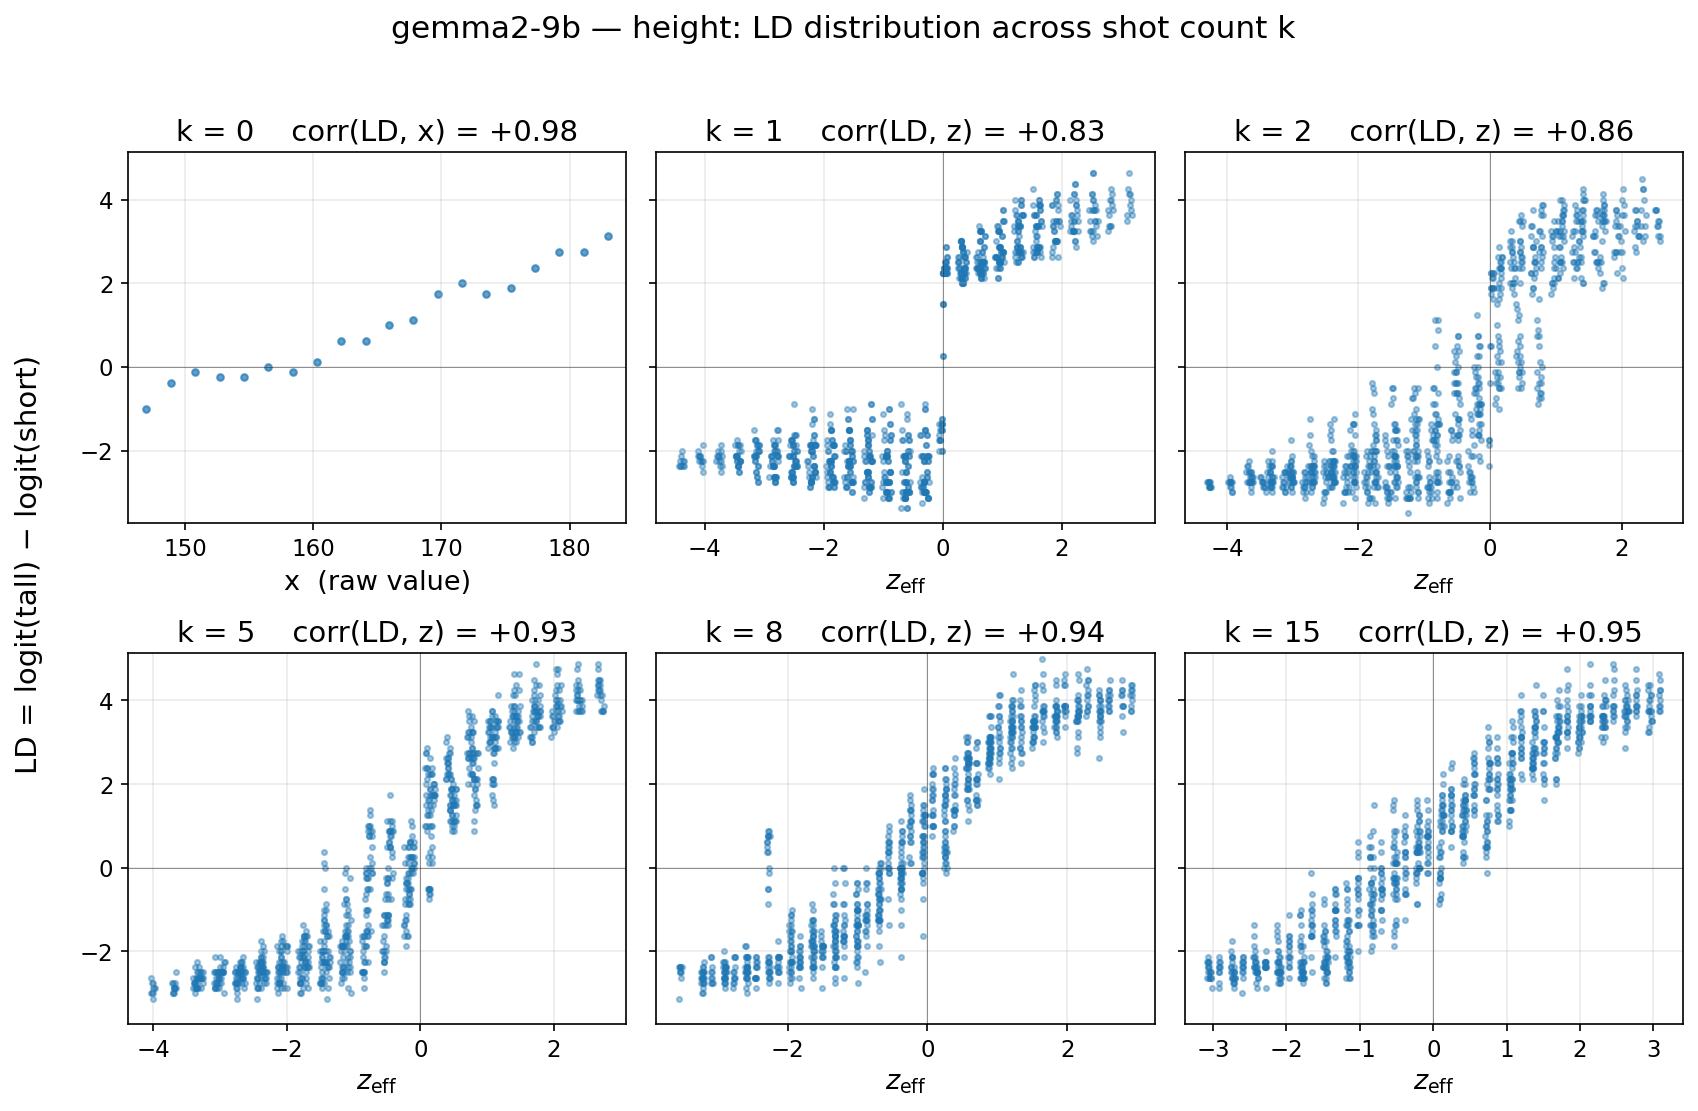
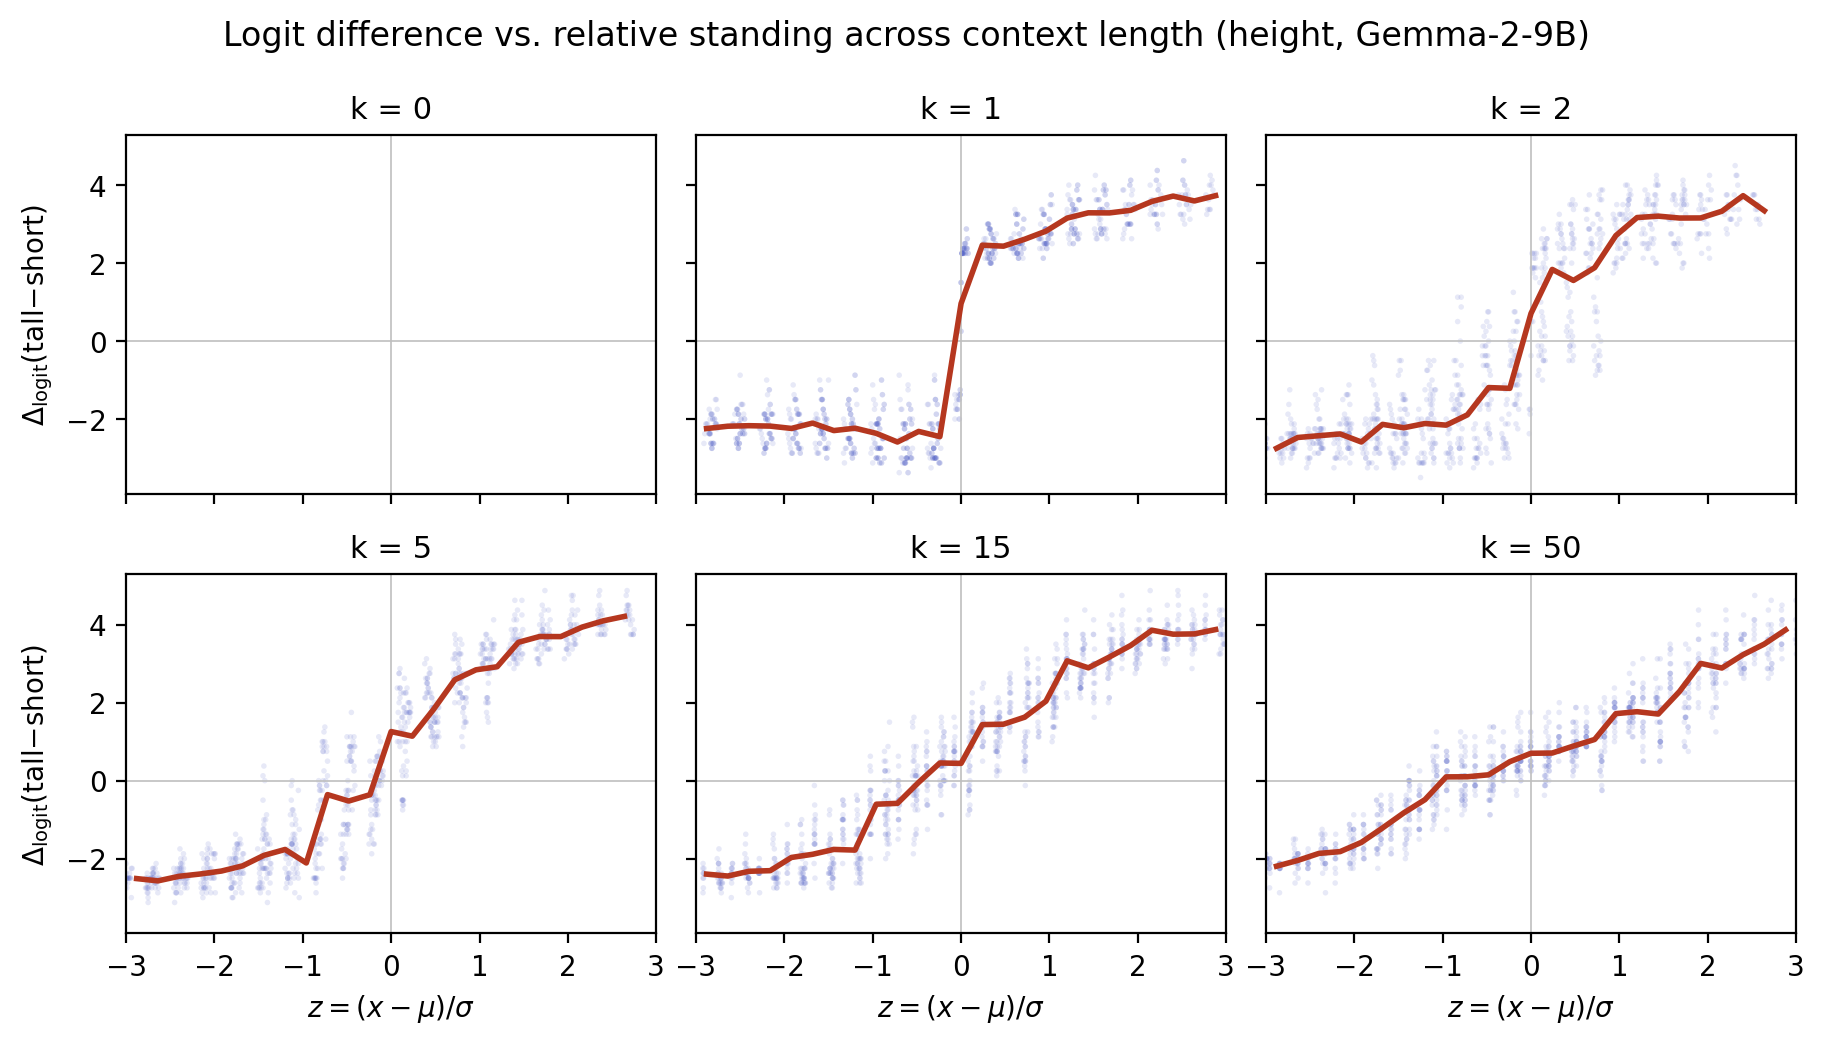
Regenerate the last two data figures — 21/22 paper figures now reproduce
- build_shared_direction_figure.py: own vs LOO absolute steering slopes (d_z, d_x) from
  results/v15 -> fig_results_shared_direction_own_loo_abs_slopes_z_vs_x.png
- build_p2a_kshot_2x3.py: LD vs z across shot counts from circuit/results/p2_ld ->
  p2a_ld_vs_z_height_gemma2-9b_2x3.png

These two had no plotting script in git (figures were hand-renamed/ad hoc); rebuilt faithfully
from committed data. Original hand-finalized PNGs remain in git history. Only the hand-made Fig 1
pipeline schematic (candidate_5) is now a committed asset.

diff --git a/figures/build_p2a_kshot_2x3.py b/figures/build_p2a_kshot_2x3.py
@@ -1,0 +1,64 @@
+#!/usr/bin/env python3
+"""Regenerate p2a_ld_vs_z_height_gemma2-9b_2x3.png from circuit/results/p2_ld.
+
+Logit difference vs context-normalized standing z at growing shot counts k: a sharp comparator-like
+step at small k that smooths toward a graded response as context grows. (Reproduction from committed
+per-prompt LD arrays; the original plotting script was not in git.)
+"""
+from __future__ import annotations
+
+from pathlib import Path
+
+import matplotlib.pyplot as plt
+import numpy as np
+
+ROOT = Path(__file__).resolve().parents[1]
+LD_DIR = ROOT / "circuit" / "results" / "p2_ld" / "gemma2-9b"
+OUT = ROOT / "paper" / "figures" / "p2a_ld_vs_z_height_gemma2-9b_2x3.png"
+KS = [0, 1, 2, 5, 15, 50]
+
+
+def binned_mean(z: np.ndarray, ld: np.ndarray, nbins: int = 25):
+    edges = np.linspace(-3, 3, nbins + 1)
+    idx = np.digitize(z, edges) - 1
+    xs, ys = [], []
+    for b in range(nbins):
+        m = idx == b
+        if m.sum() >= 3:
+            xs.append(0.5 * (edges[b] + edges[b + 1]))
+            ys.append(float(ld[m].mean()))
+    return np.array(xs), np.array(ys)
+
+
+def main() -> None:
+    fig, axes = plt.subplots(2, 3, figsize=(9.2, 5.3), sharex=True, sharey=True)
+    for ax, k in zip(axes.ravel(), KS):
+        p = LD_DIR / f"height_k{k}.npz"
+        if not p.exists():
+            ax.set_visible(False)
+            continue
+        d = np.load(p, allow_pickle=True)
+        z = np.asarray(d["z_eff"] if (k > 0 and "z_eff" in d.files) else d["z"], dtype=float)
+        ld = np.asarray(d["ld"], dtype=float)
+        ax.axhline(0, color="0.75", lw=0.6)
+        ax.axvline(0, color="0.75", lw=0.6)
+        ax.scatter(z, ld, s=4, alpha=0.12, color="#3b4cc0", edgecolors="none")
+        bx, by = binned_mean(z, ld)
+        if len(bx):
+            ax.plot(bx, by, color="#b5371f", lw=2)
+        ax.set_title(f"k = {k}", fontsize=11)
+        ax.set_xlim(-3, 3)
+    for ax in axes[-1]:
+        ax.set_xlabel(r"$z=(x-\mu)/\sigma$", fontsize=10)
+    for ax in axes[:, 0]:
+        ax.set_ylabel(r"$\Delta_{\mathrm{logit}}$(tall$-$short)", fontsize=10)
+    fig.suptitle("Logit difference vs. relative standing across context length (height, Gemma-2-9B)",
+                 fontsize=12)
+    fig.tight_layout()
+    OUT.parent.mkdir(parents=True, exist_ok=True)
+    fig.savefig(OUT, dpi=200, bbox_inches="tight")
+    print(f"wrote {OUT}")
+
+
+if __name__ == "__main__":
+    main()

diff --git a/figures/build_shared_direction_figure.py b/figures/build_shared_direction_figure.py
@@ -1,0 +1,50 @@
+#!/usr/bin/env python3
+"""Regenerate fig_results_shared_direction_own_loo_abs_slopes_z_vs_x.png from results/v15.
+
+For each concept, the absolute steering slope of the concept's OWN mean-difference direction vs a
+leave-one-out (LOO) shared direction built from the other seven concepts, for the relative-standing
+axis d_z (left) and the raw-magnitude axis d_x (right). LOO d_z retains much of own-d_z steering;
+d_x transfers less. (Reproduction from committed data; the original plotting script was not in git.)
+"""
+from __future__ import annotations
+
+import json
+from pathlib import Path
+
+import matplotlib.pyplot as plt
+import numpy as np
+
+ROOT = Path(__file__).resolve().parents[1]
+SRC = ROOT / "results" / "v15" / "shared_direction_loo_z_vs_x.json"
+OUT = ROOT / "paper" / "figures" / "fig_results_shared_direction_own_loo_abs_slopes_z_vs_x.png"
+
+ORDER = ["height", "age", "weight", "size", "speed", "wealth", "experience", "bmi_abs"]
+LABEL = {"height": "Height", "age": "Age", "weight": "Weight", "size": "Size",
+         "speed": "Speed", "wealth": "Income", "experience": "Experience", "bmi_abs": "BMI"}
+
+
+def main() -> None:
+    by_pair = json.loads(SRC.read_text())["by_pair"]
+    fig, axes = plt.subplots(1, 2, figsize=(9.2, 3.7))
+    for ax, comp, title in [(axes[0], "z", r"Relative standing $d_z$"),
+                            (axes[1], "x", r"Raw magnitude $d_x$")]:
+        own = [abs(by_pair[p][comp]["own_slope"]) for p in ORDER]
+        loo = [abs(by_pair[p][comp]["loo_shared_slope"]) for p in ORDER]
+        xs = np.arange(len(ORDER))
+        w = 0.38
+        ax.bar(xs - w / 2, own, w, label="own direction", color="#3b4cc0")
+        ax.bar(xs + w / 2, loo, w, label="LOO shared", color="#e8743b")
+        ax.set_xticks(xs)
+        ax.set_xticklabels([LABEL[p] for p in ORDER], rotation=40, ha="right", fontsize=8)
+        ax.set_title(title, fontsize=11)
+        ax.set_ylabel(r"$|$steering slope$|$", fontsize=9)
+        ax.legend(fontsize=8, frameon=False)
+    fig.suptitle("Own vs leave-one-out shared-direction steering (Gemma-2-9B, L33)", fontsize=12)
+    fig.tight_layout()
+    OUT.parent.mkdir(parents=True, exist_ok=True)
+    fig.savefig(OUT, dpi=200, bbox_inches="tight")
+    print(f"wrote {OUT}")
+
+
+if __name__ == "__main__":
+    main()